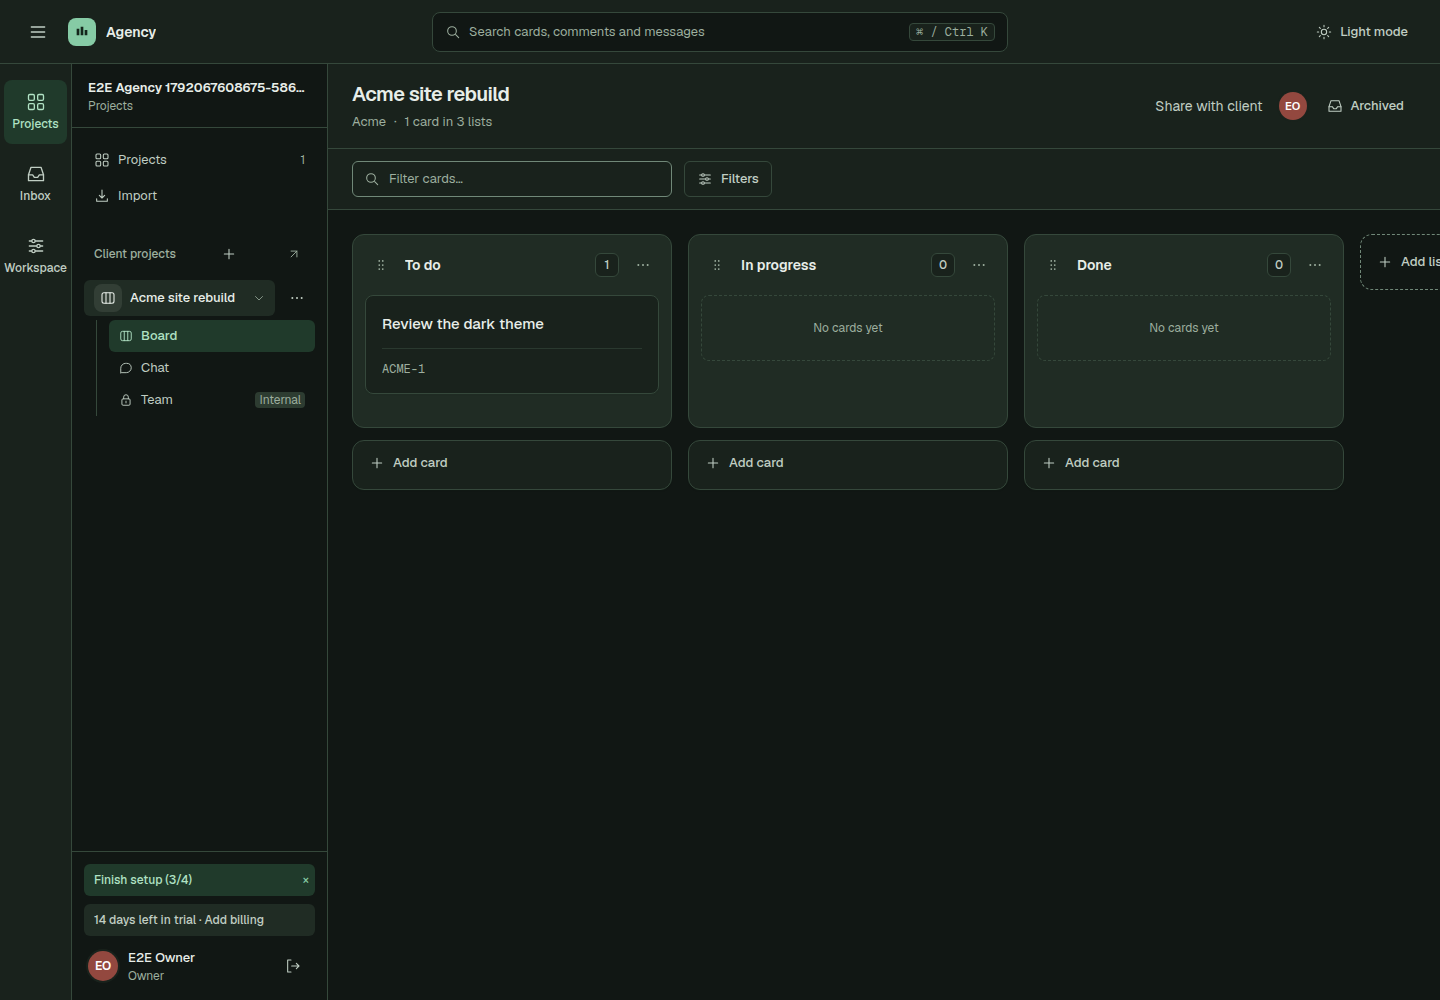
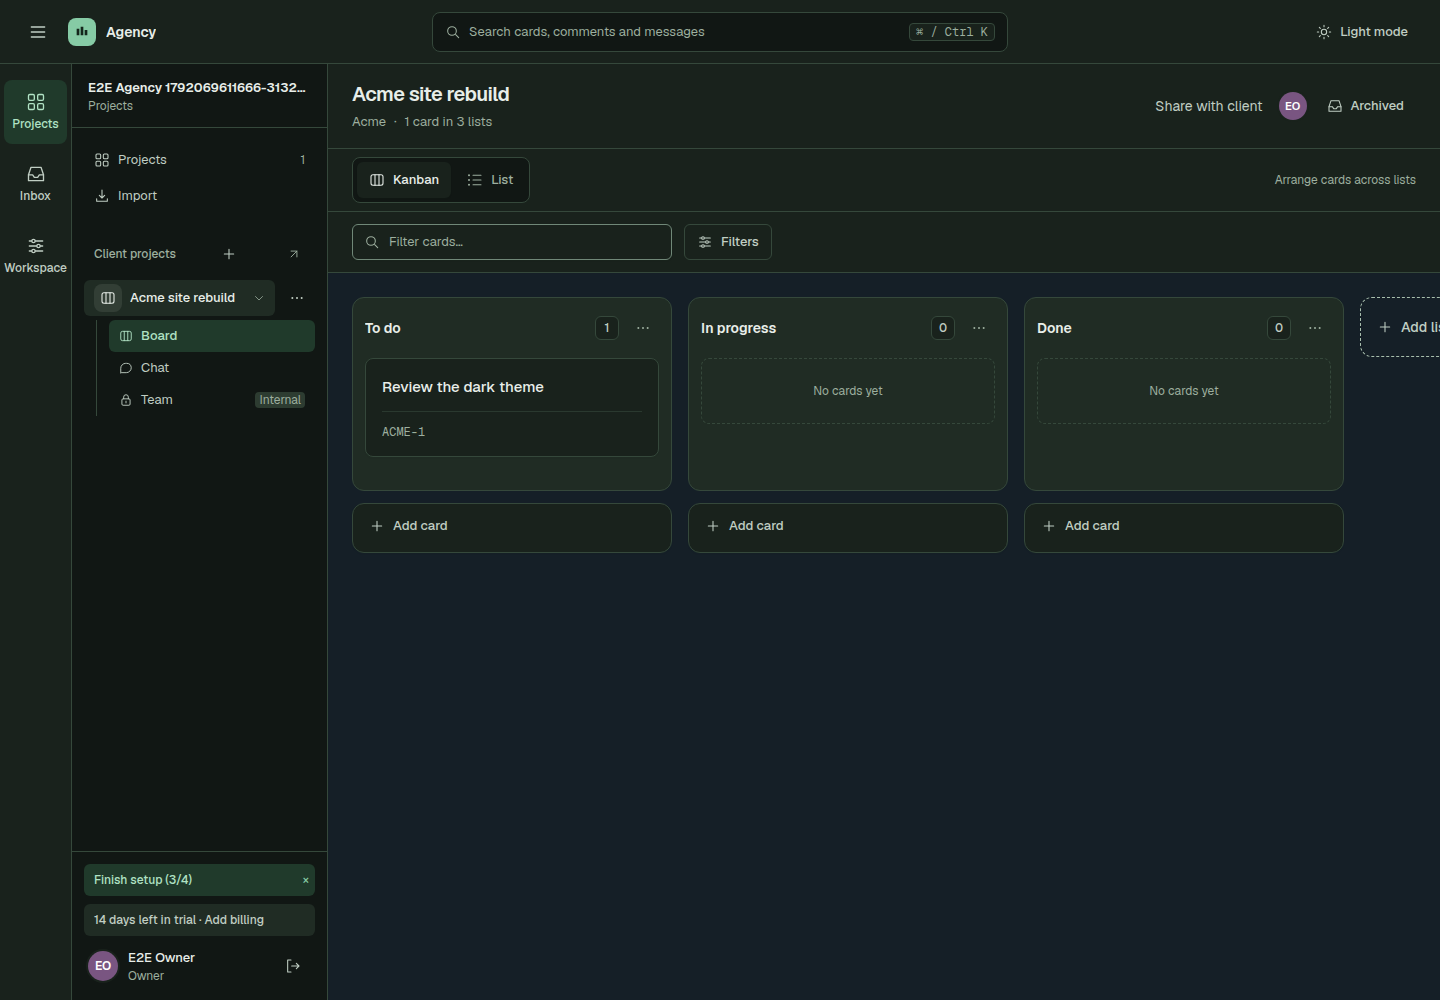
Distinguish board canvas and drag lists from full headers

diff --git a/e2e/list-header.spec.ts b/e2e/list-header.spec.ts
@@ -1,0 +1,93 @@
+import { expect, test, type Locator, type Page } from '@playwright/test';
+import { list, signupToBoard } from './helpers';
+
+async function order(page: Page) {
+  return await page.getByTestId('list-column').evaluateAll((columns) => columns.map((column) => column.getAttribute('aria-label')));
+}
+async function dragHeader(page: Page, source: Locator, destination: Locator, padding = false) {
+  const [from, to] = await Promise.all([source.boundingBox(), destination.boundingBox()]);
+  if (!from || !to) throw new Error('List headers must be visible');
+  const x = from.x + from.width / 2;
+  const y = padding ? from.y + 5 : from.y + from.height / 2;
+  await page.mouse.move(x, y); await page.mouse.down();
+  await page.mouse.move(x + 12, y, { steps: 3 });
+  await page.mouse.move(to.x + to.width / 2, to.y + to.height / 2, { steps: 15 });
+  await page.mouse.up();
+}
+
+test('board canvas is distinct from the sidebar in light and dark themes', async ({ browser }, info) => {
+  const { page } = await signupToBoard(browser, { viewport: { width: 1440, height: 1000 }, colorScheme: 'light' });
+  const canvas = page.getByTestId('board-canvas');
+  const sidebar = page.getByRole('complementary', { name: 'Workspace sidebar' });
+  for (const theme of ['light', 'dark']) {
+    if (theme === 'dark') await page.getByRole('button', { name: 'Switch to dark mode' }).click();
+    const [workColor, navColor] = await Promise.all([canvas.evaluate((element) => getComputedStyle(element).backgroundColor), sidebar.evaluate((element) => getComputedStyle(element).backgroundColor)]);
+    expect(workColor).not.toBe(navColor); expect(workColor).not.toBe('rgba(0, 0, 0, 0)');
+    await page.screenshot({ path: info.outputPath(`board-canvas-${theme}.png`), fullPage: true, animations: 'disabled', style: 'nextjs-portal { visibility: hidden; }' });
+  }
+  await page.context().close();
+});
+
+test('header padding and title both reorder columns while controls retain normal behavior', async ({ browser }) => {
+  const { page } = await signupToBoard(browser, { viewport: { width: 1440, height: 1000 } });
+  const todo = list(page, 'To do');
+  const progress = list(page, 'In progress');
+  await expect(page.getByRole('button', { name: /^Move list/ })).toHaveCount(0);
+  await dragHeader(page, todo.getByTestId('list-header'), progress.getByTestId('list-header'), true);
+  await expect.poll(() => order(page)).toEqual(['List In progress', 'List To do', 'List Done']);
+  await expect(page.getByRole('textbox', { name: 'List name', exact: true })).toHaveCount(0);
+  await page.reload();
+  await expect.poll(() => order(page)).toEqual(['List In progress', 'List To do', 'List Done']);
+  await dragHeader(page, todo.getByRole('button', { name: 'To do', exact: true }), progress.getByTestId('list-header'));
+  await expect.poll(() => order(page)).toEqual(['List To do', 'List In progress', 'List Done']);
+  await expect(page.getByRole('textbox', { name: 'List name', exact: true })).toHaveCount(0);
+  await todo.getByRole('button', { name: 'List actions for To do' }).click();
+  const menu = page.getByRole('group', { name: 'Actions for To do', exact: true });
+  await expect(menu).toBeVisible();
+  await menu.getByRole('button', { name: 'Rename', exact: true }).click();
+  const name = todo.getByRole('textbox', { name: 'List name', exact: true });
+  await name.fill('Upcoming'); await page.keyboard.press('Enter');
+  await expect(list(page, 'Upcoming')).toBeVisible();
+  await list(page, 'Upcoming').getByRole('button', { name: 'Upcoming', exact: true }).click();
+  await expect(list(page, 'Upcoming').getByRole('textbox', { name: 'List name', exact: true })).toBeFocused();
+  await page.keyboard.press('Escape');
+  await page.getByRole('searchbox', { name: 'Filter cards' }).fill('Review');
+  await expect(page.getByText('Filters are on — clear them to drag cards.')).toBeVisible();
+  await dragHeader(page, list(page, 'Upcoming').getByTestId('list-header'), progress.getByTestId('list-header'), true);
+  await expect.poll(() => order(page)).toEqual(['List Upcoming', 'List In progress', 'List Done']);
+  await page.context().close();
+});
+
+test('header title supports keyboard reorder, Escape cancellation and API failure recovery', async ({ browser }) => {
+  const { page } = await signupToBoard(browser, { viewport: { width: 1440, height: 1000 } });
+  const title = list(page, 'To do').getByRole('button', { name: 'To do', exact: true });
+  await title.click({ trial: true });
+  await title.focus(); await page.keyboard.press('Space');
+  await expect(title).toHaveAttribute('aria-pressed', 'true');
+  const progressId = await list(page, 'In progress').getAttribute('data-list-id');
+  await page.keyboard.press('ArrowRight');
+  await expect(page.getByRole('status')).toContainText(`over droppable area list:${progressId}`);
+  await page.keyboard.press('Escape');
+  await expect(title).not.toHaveAttribute('aria-pressed', 'true');
+  await expect.poll(() => order(page)).toEqual(['List To do', 'List In progress', 'List Done']);
+  await title.click({ trial: true });
+  await title.focus(); await page.keyboard.press('Space');
+  await expect(title).toHaveAttribute('aria-pressed', 'true');
+  await page.keyboard.press('ArrowRight');
+  await expect(page.getByRole('status')).toContainText(`over droppable area list:${progressId}`);
+  await page.keyboard.press('Space');
+  await expect.poll(() => order(page)).toEqual(['List In progress', 'List To do', 'List Done']);
+  await expect(page.getByRole('textbox', { name: 'List name', exact: true })).toHaveCount(0);
+  await page.route('**/api/v1/lists/*/position', (route) => route.fulfill({ status: 500, json: { error: { code: 'internal', message: 'Please try again.' } } }));
+  await title.click({ trial: true });
+  await title.focus(); await page.keyboard.press('Space');
+  await expect(title).toHaveAttribute('aria-pressed', 'true');
+  await page.keyboard.press('ArrowLeft');
+  await expect(page.getByRole('status')).toContainText(`over droppable area list:${progressId}`);
+  await page.keyboard.press('Space');
+  await expect(page.getByTestId('toast')).toContainText("Couldn't move the list");
+  await expect.poll(() => order(page)).toEqual(['List In progress', 'List To do', 'List Done']);
+  await page.reload();
+  await expect.poll(() => order(page)).toEqual(['List In progress', 'List To do', 'List Done']);
+  await page.context().close();
+});

diff --git a/src/components/board/list-header.tsx b/src/components/board/list-header.tsx
@@ -1,7 +1,8 @@
 'use client';
 
 import { useQueryClient } from '@tanstack/react-query';
-import { useId, useRef, useState, type ReactNode } from 'react';
+import { useEffect, useId, useRef, useState, type ReactNode, type MouseEvent, type TouchEvent } from 'react';
+import type { useSortable } from '@dnd-kit/sortable';
 import { Icon } from '@/components/icon';
 import { Input } from '@/components/ui';
 import { useToast } from '@/components/toast';
@@ -9,13 +10,27 @@ import { api, errorMessage } from '@/lib/api';
 import { upsertList } from '@/lib/board-state';
 import type { Board, BoardList } from '@/lib/types';
 
+type HeaderDrag = Pick<ReturnType<typeof useSortable>, 'attributes' | 'listeners' | 'setActivatorNodeRef' | 'isDragging'> & { disabled: boolean };
+
 /** The same 60px list heading, counts and actions in Kanban and List views. */
-export function ListHeader({ list, count, boardId, leading }: {
-  list: BoardList; count: number; boardId: string; leading?: ReactNode;
+export function ListHeader({ list, count, boardId, leading, drag }: {
+  list: BoardList; count: number; boardId: string; leading?: ReactNode; drag?: HeaderDrag;
 }) {
   const qc = useQueryClient();
   const toast = useToast();
   const [editing, setEditing] = useState(false);
+  const dragged = useRef(false);
+  useEffect(() => {
+    if (drag?.isDragging) { dragged.current = true; return; }
+    if (!dragged.current) return;
+    const timer = setTimeout(() => { dragged.current = false; }, 0);
+    return () => clearTimeout(timer);
+  }, [drag?.isDragging]);
+  function startDrag(event: MouseEvent<HTMLElement> | TouchEvent<HTMLElement>) {
+    if (editing || !drag || drag.disabled || (event.target instanceof Element && event.target.closest('[data-no-list-drag]'))) return;
+    const listener = event.type === 'mousedown' ? drag.listeners?.onMouseDown : drag.listeners?.onTouchStart;
+    listener?.(event);
+  }
   const menuId = useId();
   const menu = useRef<HTMLDivElement>(null);
   const [position, setPosition] = useState({ top: 0, left: 0 });
@@ -34,21 +49,26 @@ export function ListHeader({ list, count, boardId, leading }: {
     try { await api.del(`/lists/${list.id}`); await qc.invalidateQueries({ queryKey: ['board', boardId] }); }
     catch (error) { toast(errorMessage(error)); }
   }
-  return <header data-testid="list-header" className="flex h-15 shrink-0 items-center gap-2 px-3 py-3">
+  return <header data-testid="list-header" onMouseDown={startDrag} onTouchStart={startDrag}
+    className={`flex h-15 shrink-0 items-center gap-2 px-3 py-3 ${drag && !drag.disabled && !editing ? 'cursor-grab select-none active:cursor-grabbing' : ''}`}>
     {leading}
-    {editing ? <Input autoFocus defaultValue={list.name} aria-label="List name" maxLength={120}
+    {editing ? <Input data-no-list-drag autoFocus defaultValue={list.name} aria-label="List name" maxLength={120}
       onBlur={(event) => void rename(event.target.value)}
       onKeyDown={(event) => { if (event.key === 'Enter') event.currentTarget.blur(); if (event.key === 'Escape') setEditing(false); }}
-      className="min-w-0 flex-1 px-2 py-1.5 text-sm font-semibold" />
-      : <h2 className="min-w-0 flex-1"><button type="button" onClick={() => setEditing(true)} title={list.name} className="tap min-h-9 w-full truncate rounded-md text-left text-sm font-semibold tracking-normal hover:bg-muted">{list.name}</button></h2>}
+      className="min-w-0 flex-1 select-text px-2 py-1.5 text-sm font-semibold" />
+      : <h2 className="min-w-0 flex-1"><button type="button" ref={drag?.setActivatorNodeRef} {...(drag?.disabled ? {} : drag?.attributes)}
+        onKeyDown={(event) => { if (!drag?.disabled) drag?.listeners?.onKeyDown?.(event); }}
+        onClick={() => { if (!dragged.current) setEditing(true); }}
+        title={drag && !drag.disabled ? `${list.name} · Drag to reorder, click to rename` : list.name}
+        className={`tap min-h-9 w-full truncate rounded-md text-left text-sm font-semibold tracking-normal hover:bg-muted ${drag && !drag.disabled ? 'cursor-grab active:cursor-grabbing' : ''}`}>{list.name}</button></h2>}
     <span className="inline-flex h-6 min-w-6 shrink-0 items-center justify-center rounded-md border border-border bg-surface px-1.5 text-caption font-medium text-secondary-foreground" aria-label={`${count} of ${list.cards.length} cards`}>
       {count === list.cards.length ? count : `${count}/${list.cards.length}`}
     </span>
-    <button type="button" aria-label={`List actions for ${list.name}`} popoverTarget={menuId} onClick={(event) => {
+    <button data-no-list-drag type="button" aria-label={`List actions for ${list.name}`} popoverTarget={menuId} onClick={(event) => {
       const rect = event.currentTarget.getBoundingClientRect();
       setPosition({ top: Math.max(8, Math.min(rect.bottom + 4, window.innerHeight - 128)), left: Math.max(8, Math.min(rect.right - 160, window.innerWidth - 168)) });
     }} className="tap inline-flex min-h-9 w-8 shrink-0 items-center justify-center rounded-md text-muted-foreground hover:bg-muted active:bg-surface"><Icon name="more" /></button>
-    <div ref={menu} id={menuId} popover="auto" role="group" aria-label={`Actions for ${list.name}`} style={position} className="fixed m-0 w-40 rounded-lg border border-border bg-surface p-1 text-sm text-foreground shadow-lg">
+    <div data-no-list-drag ref={menu} id={menuId} popover="auto" role="group" aria-label={`Actions for ${list.name}`} style={position} className="fixed m-0 w-40 rounded-lg border border-border bg-surface p-1 text-sm text-foreground shadow-lg">
       <button type="button" className="ui-nav-link tap w-full" onClick={() => { menu.current?.hidePopover(); setEditing(true); }}>Rename</button>
       <button type="button" className="ui-nav-link tap w-full text-danger-text" onClick={() => void archive()}>Archive list</button>
     </div>

diff --git a/src/components/board/board.tsx b/src/components/board/board.tsx
@@ -11,6 +11,7 @@ import {
   useSensor,
   useSensors,
   type CollisionDetection,
+  type KeyboardCoordinateGetter,
   type DragEndEvent,
   type DragOverEvent,
   type DragStartEvent,
@@ -58,6 +59,15 @@ const collision: CollisionDetection = (args) => {
   return isList ? closestCenter({ ...args, droppableContainers }) : closestCorners({ ...args, droppableContainers });
 };
 
+/** List keyboard moves must ignore the inset card-drop zones inside each list. */
+const boardKeyboardCoordinates: KeyboardCoordinateGetter = (event, args) => {
+  if (args.context.active?.data.current?.type !== 'list') return sortableKeyboardCoordinates(event, args);
+  const droppableRects = new Map([...args.context.droppableRects].filter(([id]) =>
+    args.context.droppableContainers.get(id)?.data.current?.type === 'list',
+  ));
+  return sortableKeyboardCoordinates(event, { ...args, context: { ...args.context, droppableRects } });
+};
+
 export function BoardScreen({ boardId, projectId }: { boardId: string; projectId: string }) {
   const ws = useWorkspace();
   const qc = useQueryClient();
@@ -95,7 +105,7 @@ export function BoardScreen({ boardId, projectId }: { boardId: string; projectId
     useSensor(TouchSensor, { activationConstraint: { delay: 200, tolerance: 8 } }),
     // Space lifts, arrows move, Space drops, Esc cancels (AC14). Enter is left free to open a card.
     useSensor(KeyboardSensor, {
-      coordinateGetter: sortableKeyboardCoordinates,
+      coordinateGetter: boardKeyboardCoordinates,
       keyboardCodes: { start: ['Space'], cancel: ['Escape'], end: ['Space'] },
     }),
   );
@@ -181,7 +191,7 @@ export function BoardScreen({ boardId, projectId }: { boardId: string; projectId
   const activeList = drag?.type === 'list' ? drag.board.lists.find((l) => l.id === drag.activeId) : undefined;
 
   return (
-    <div className="flex h-full">
+    <div data-testid="board-canvas" className="flex h-full bg-board-canvas">
       <div className="flex min-w-0 flex-1 flex-col">
         <div className="flex shrink-0 flex-wrap items-center gap-x-4 gap-y-3 border-b border-border bg-surface px-4 py-4 sm:px-6">
           <div className="min-w-0 grow basis-48">

diff --git a/src/components/board/list-column.tsx b/src/components/board/list-column.tsx
@@ -3,7 +3,6 @@
 import { useDroppable } from '@dnd-kit/core';
 import { SortableContext, useSortable, verticalListSortingStrategy } from '@dnd-kit/sortable';
 import { CSS } from '@dnd-kit/utilities';
-import { Icon } from '@/components/icon';
 import type { Board, BoardList, CardTile } from '@/lib/types';
 import { AddCard } from './add-card';
 import { ListHeader } from './list-header';
@@ -34,12 +33,11 @@ export function ListColumn({ list, cards, board, now, cardHref, dndDisabled, cla
       className={`max-h-full min-h-64 w-full shrink-0 flex-col gap-3 sm:w-80 ${sortable.isDragging ? 'opacity-40' : ''} ${className}`}
     >
       <div data-testid="list-surface" className="flex min-h-0 flex-1 flex-col rounded-xl border border-border bg-subtle pb-3">
-        <ListHeader list={list} count={cards.length} boardId={board.id} leading={
-          <button type="button" {...sortable.attributes} {...sortable.listeners} aria-label={`Move list ${list.name}`} disabled={dndDisabled}
-            className="tap hidden min-h-9 w-8 shrink-0 cursor-grab items-center justify-center rounded-md text-muted-foreground hover:bg-muted hover:text-secondary-foreground disabled:cursor-default disabled:opacity-40 sm:inline-flex">
-            <Icon name="grip" className="size-3.5" />
-          </button>
-        } />
+        <ListHeader list={list} count={cards.length} boardId={board.id} drag={{
+          attributes: sortable.attributes, listeners: sortable.listeners,
+          setActivatorNodeRef: sortable.setActivatorNodeRef, isDragging: sortable.isDragging,
+          disabled: dndDisabled,
+        }} />
         <div ref={drop.setNodeRef} data-testid="list-cards" className="flex min-h-0 flex-1 flex-col gap-3 overflow-y-auto overscroll-contain px-3 pb-1">
           {cards.length === 0 ? <p className="rounded-lg border border-dashed border-border px-3 py-6 text-center text-caption text-muted-foreground">{list.cards.length ? 'No matching cards' : 'No cards yet'}</p> : null}
           <SortableContext items={cards.map((c) => c.id)} strategy={verticalListSortingStrategy}>

diff --git a/src/components/board/add-list.tsx b/src/components/board/add-list.tsx
@@ -33,7 +33,7 @@ export function AddList({ boardId, layout = 'kanban' }: { boardId: string; layou
   return open ? <form onSubmit={(event) => void submit(event)} className={`${width} shrink-0 flex-col gap-3 rounded-xl border border-border bg-surface p-4`}>
     <Input name="name" autoFocus required aria-label="List name" placeholder="List name" maxLength={120} onKeyDown={(event) => { if (event.key === 'Escape' && !busy) { event.stopPropagation(); close(); } }} />
     <div className="flex gap-2"><Button type="submit" size="sm" disabled={busy}>{busy ? 'Adding…' : 'Add list'}</Button><Button variant="ghost" size="sm" disabled={busy} onClick={close}>Cancel</Button></div>
-  </form> : <button ref={trigger} type="button" onClick={() => setOpen(true)} data-testid="add-list-tile" className={`tap ${width} h-15 shrink-0 items-center gap-2 rounded-xl border border-dashed border-input px-4 text-left text-sm font-medium text-secondary-foreground hover:border-border-hover hover:bg-subtle active:bg-muted`}>
+  </form> : <button ref={trigger} type="button" onClick={() => setOpen(true)} data-testid="add-list-tile" className={`tap ${width} h-15 shrink-0 items-center gap-2 rounded-xl border border-dashed border-border-hover px-4 text-left text-sm font-medium text-secondary-foreground hover:border-border-hover hover:bg-subtle active:bg-muted`}>
     <Icon name="plus" />Add list
   </button>;
 }

diff --git a/src/lib/design-system.spec.ts b/src/lib/design-system.spec.ts
@@ -30,6 +30,7 @@ describe.each(['light', 'dark'])('%s readable design token combinations', (theme
   beforeAll(() => { colors.clear(); loadColors(lightCss!); if (theme === 'dark') loadColors(darkCss); });
   it.each([
     ['inverse-foreground', 'inverse'], ['foreground', 'background'], ['secondary-foreground', 'surface'],
+    ['foreground', 'board-canvas'], ['secondary-foreground', 'board-canvas'], ['muted-foreground', 'board-canvas'],
     ['muted-foreground', 'surface'], ['muted-foreground', 'subtle'],
     ['primary-foreground', 'primary'], ['primary-foreground', 'primary-hover'],
     ['primary-foreground', 'primary-active'], ['primary', 'surface'],
@@ -44,7 +45,7 @@ describe.each(['light', 'dark'])('%s readable design token combinations', (theme
     expect(contrast(foreground, background)).toBeGreaterThanOrEqual(4.5);
   });
 
-  it.each([['input', 'surface'], ['ring', 'surface'], ['ring', 'background']])(
+  it.each([['input', 'surface'], ['ring', 'surface'], ['ring', 'background'], ['ring', 'board-canvas'], ['border-hover', 'board-canvas']])(
     '%s remains distinguishable on %s at 3:1', (control, background) => {
       expect(contrast(control, background)).toBeGreaterThanOrEqual(3);
     },

diff --git a/e2e/chat.spec.ts b/e2e/chat.spec.ts
@@ -148,6 +148,7 @@ test('⌘K palette: debounced search, ↵ navigates to the message, ⌘↵ opens
   await page.keyboard.press('ControlOrMeta+k');
   const palette = page.getByTestId('command-palette');
   await expect(palette).toBeVisible();
+  await expect(palette.getByLabel('Search cards, comments and messages')).toBeFocused();
   await palette.getByLabel('Search cards, comments and messages').pressSequentially('quokka', { delay: 40 });
   await expect(palette.getByTestId('search-result').first()).toContainText('quokka mascot');
   // Typed faster than the 250ms debounce: one request, for the full word.

diff --git a/src/styles/tokens.css b/src/styles/tokens.css
@@ -5,6 +5,7 @@
   --font-mono: var(--font-geist-mono), ui-monospace, 'SF Mono', Menlo, monospace;
 
   --color-background: #f7f8f5;
+  --color-board-canvas: #eef2f6;
   --color-surface: #ffffff;
   --color-subtle: #f0f2ee;
   --color-muted: #e7ebe5;
@@ -97,6 +98,7 @@
 /* Keep status fills and content colors stable; adapt surfaces, text and controls. */
 html[data-theme='dark'] {
   --color-background: #111714;
+  --color-board-canvas: #151f27;
   --color-surface: #19221c;
   --color-subtle: #202c24;
   --color-muted: #2d3c31;

diff --git a/docs/BOARD_VIEWS.md b/docs/BOARD_VIEWS.md
@@ -25,6 +25,17 @@ list header height. Its creation form keeps the same 320px width. The existing
 one-list mobile Kanban layout is retained. Add card remains a separate tile
 below each list panel.
 
+Kanban lists drag from the whole header (including its title, count and padding),
+with no separate grip. The title remains the keyboard activator: Space lifts,
+arrows move, Space drops and Escape cancels. A normal title click renames;
+ending a drag must not open rename. Menus and the rename field never activate
+header dragging. Filtering keeps list/card sorting disabled as before. The List
+presentation retains its collapse control and does not enable group dragging.
+
+The board canvas uses a cool neutral `board-canvas` token in light and dark
+mode; navigation keeps the warmer `background` token. Card and toolbar surfaces
+retain their existing semantic roles.
+
 ## List layout
 
 - Groups follow the board's lists, including empty lists. Headers show the list
@@ -60,3 +71,7 @@ and retry, URL restoration, shared filtering/order, row drawer interactions,
 collapse/rename/archive, mobile creation, light/dark previews and overflow.
 Existing Kanban drag, card drawer and onboarding journeys remain regression
 coverage. Screenshots are indexed in `docs/previews/README.md`.
+
+`e2e/list-header.spec.ts` covers canvas/sidebar separation in both themes, whole
+header pointer dragging, title/menu editing, filtering, keyboard reordering and
+failed reorder recovery. New canvas token pairs are contrast-tested in both themes.

diff --git a/docs/DESIGN_SYSTEM.md b/docs/DESIGN_SYSTEM.md
@@ -42,6 +42,7 @@ component library to fix an individual screen.
 | Role / utility | Value | Use |
 | --- | --- | --- |
 | `bg-background` | `#F7F8F5` | App canvas and quiet navigation rail |
+| `bg-board-canvas` | `#EEF2F6` light / `#151F27` dark | Cool neutral board work area, distinct from the warm sidebar; pair with foreground/secondary/muted text |
 | `bg-surface` | `#FFFFFF` | Cards, forms, dialogs, main headers |
 | `bg-subtle` | `#F0F2EE` | Board lanes, code, secondary control hover |
 | `bg-muted` | `#E7EBE5` | Neutral selected/pressed surfaces |
@@ -155,6 +156,11 @@ piece of information. Reuse the semantic type and color tokens above.
 | Between lists / cards | 16px / 12px | Clear grouping without compressing card content |
 | Inside a card | 16px | Common text and metadata inset |
 | Controls | 36px desktop; at least 44px below 640px | Aligned toolbar and accessible mobile touch targets |
+
+The Kanban header itself is the list drag area; do not add a separate grip.
+Keep title click/rename, keyboard reordering and menu/input interaction working.
+The sidebar retains `background`; the board canvas uses `board-canvas` in both
+themes. Add list uses a `border-hover` outline against the canvas for contrast.
 
 Keep list headings and the bottom Add card control outside the list's scrolling
 card area. Long lists scroll internally; users can still identify the list and

diff --git a/docs/previews/README.md b/docs/previews/README.md
@@ -3,6 +3,7 @@
 Screenshots come from Playwright journeys against the local API with disposable
 accounts. Images show implemented behavior; synthetic names are test data.
 
+- [Board canvas, light](board-canvas-light.png) / [dark](board-canvas-dark.png): subtle separation from the sidebar and full-header column dragging.
 - [Light app bar](appbar-light.png): global search, module rail and contextual sidebar.
 - [Dark Kanban](appbar-dark.png): full semantic theme and separate Add card tiles.
 - [Mobile dark Kanban](appbar-dark-mobile.png): labelled switch and compact global search.
